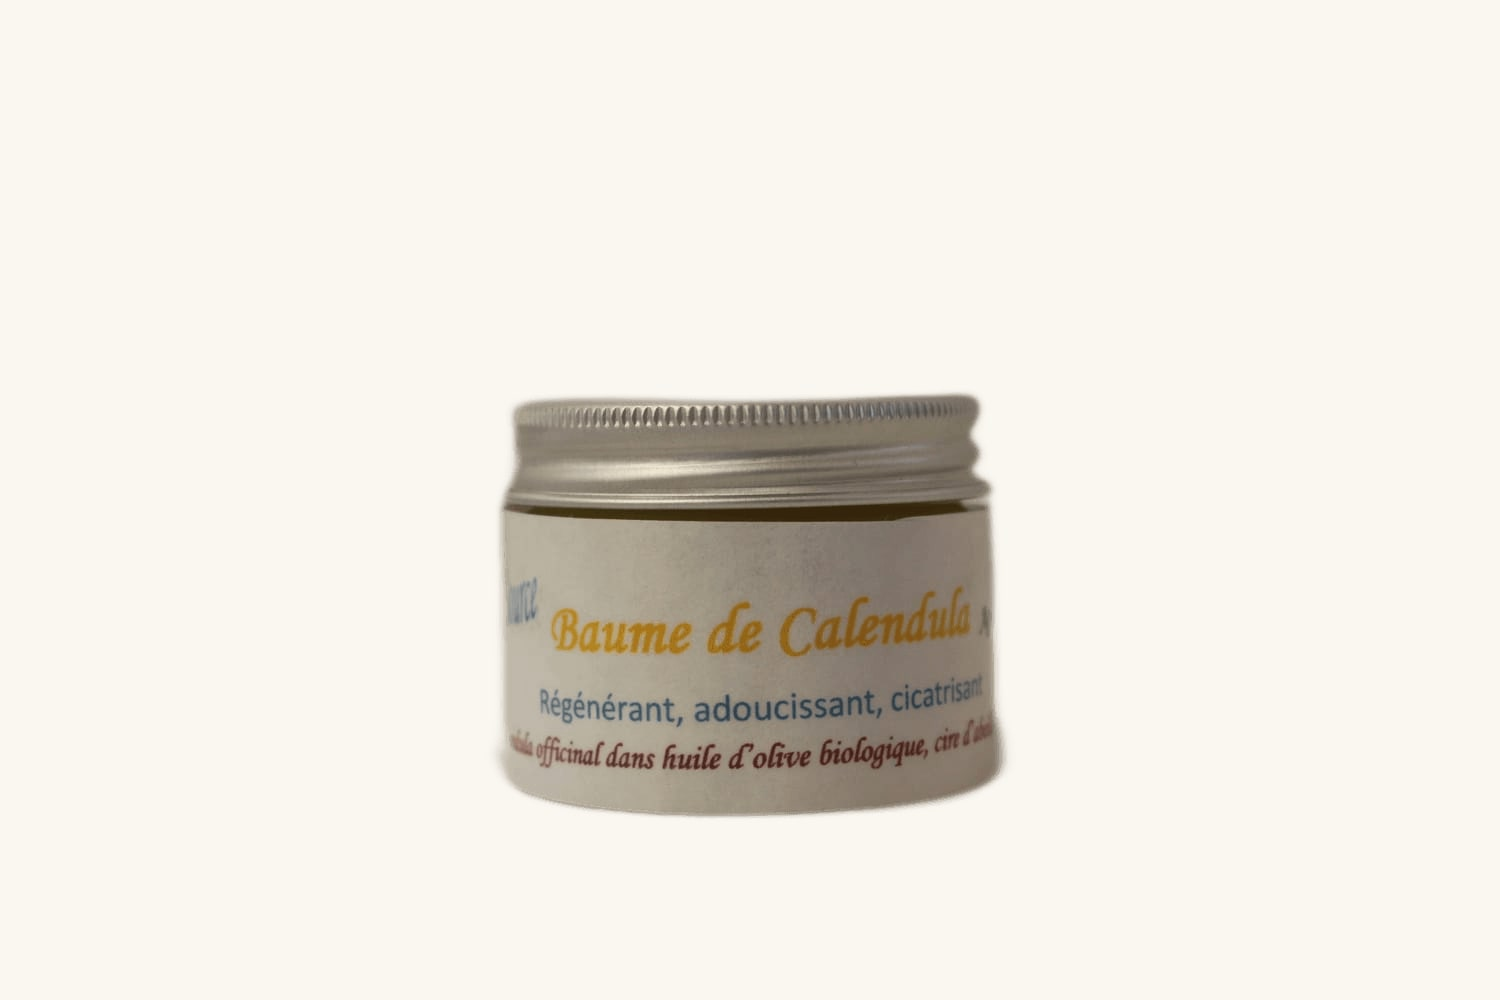
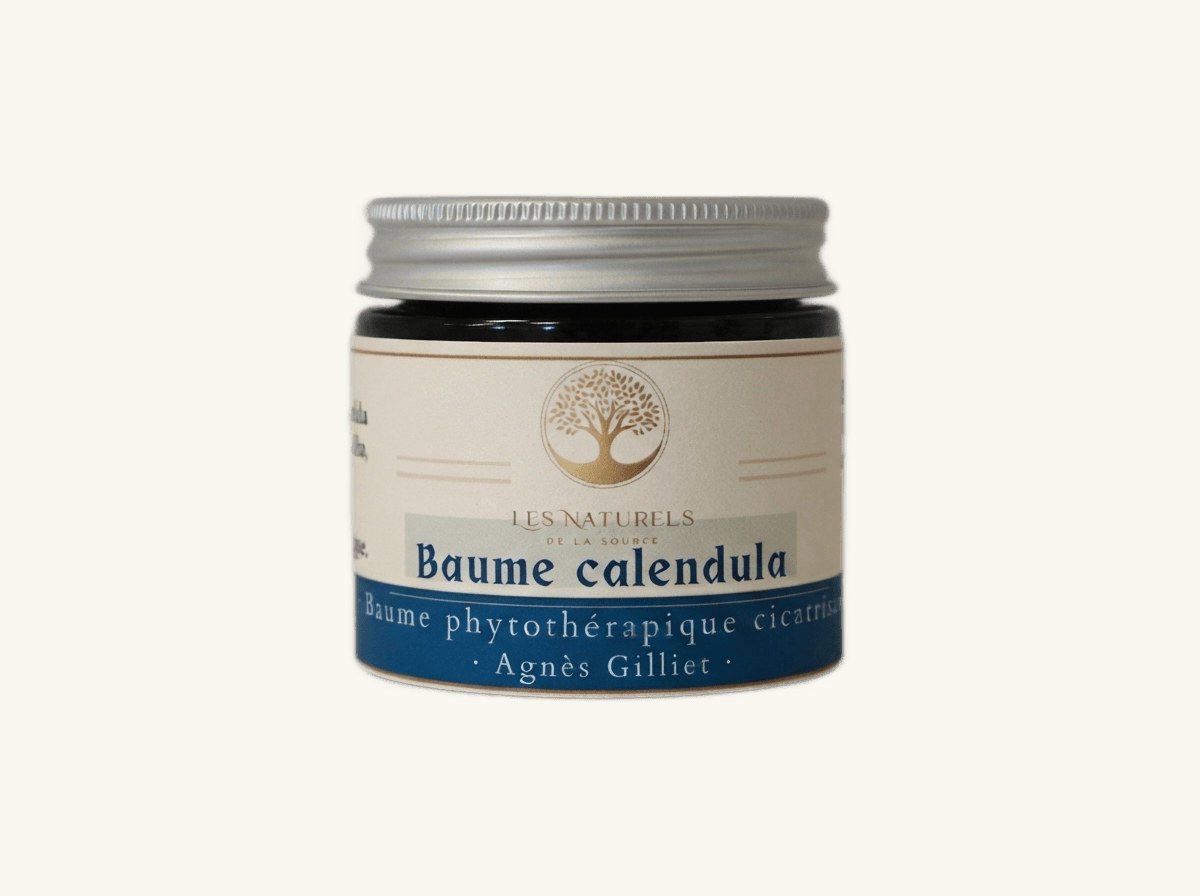
Boutique : images rubriques agrandies, baumes étiquetés, tanaisie, nettoyages
- Images à côté des intitulés agrandies (rep 190→240, bandeaux 140→180).
- Retire "Photo d'illustration" sous les bandeaux (HE, Tisanes, Hydrolats).
- Tisanes : "sachet kraft de 15, 25 ou 50 g".
- Baumes avec nouvelles étiquettes : Bomhémo (#93), calendula (#92),
  féminité (#97) — photos détourées.
- Tanaisie (#70) : vraie tanaisie (Tanacetum vulgare) au lieu de la camomille.

Changed region(s): [[0.2775, 0.2188, 0.7092, 0.8438]]

diff --git a/src/App.tsx b/src/App.tsx
@@ -1256,7 +1256,7 @@ function PageBoutique({ cart, setCart, addToast, onOpenCart, onRdv, setPage, ini
             <div style={{ maxWidth:860, margin:'0 auto', padding:'56px 32px' }}>
               {CATEGORY_REP_IMAGE[activeCategory] && PRODUCT_IMAGES[CATEGORY_REP_IMAGE[activeCategory]] && (
                 <img src={PRODUCT_IMAGES[CATEGORY_REP_IMAGE[activeCategory]]} alt={activeCategory} loading="lazy"
-                  style={{ float:'right', width:190, height:190, objectFit:'contain', marginLeft:28, marginBottom:16,
+                  style={{ float:'right', width:240, height:240, objectFit:'contain', marginLeft:30, marginBottom:16,
                     borderRadius:16, border:'1px solid oklch(0.42 0.085 150 / 0.14)', background:'var(--surface)' }}/>
               )}
               <p style={{ fontFamily:'Barlow,sans-serif', fontSize:10, letterSpacing:2.5, textTransform:'uppercase', color:'var(--forest)', fontWeight:600, marginBottom:20, display:'flex', alignItems:'center', gap:10 }}>
@@ -1267,39 +1267,27 @@ function PageBoutique({ cart, setCart, addToast, onOpenCart, onRdv, setPage, ini
                 <div style={{ display:'flex', alignItems:'center', gap:22, marginBottom:28, padding:'16px 22px',
                   background:'var(--surface)', border:'1px solid oklch(0.42 0.085 150 / 0.14)', borderRadius:14 }}>
                   <img src={heFlaconExemple} alt="Flacon verre ambré de 15 ml — huile essentielle de romarin"
-                    style={{ height:140, width:'auto', objectFit:'contain', flexShrink:0 }}/>
+                    style={{ height:180, width:'auto', objectFit:'contain', flexShrink:0 }}/>
                   <p style={{ fontFamily:'Barlow,sans-serif', fontSize:16, fontWeight:500, color:'var(--ink)', margin:0, lineHeight:1.5 }}>
-                    Conditionnées en flacons verre ambré de 15 ml
-                    <span style={{ display:'block', fontSize:12, fontWeight:300, color:'var(--lt-ink-muted)', marginTop:4 }}>
-                      Photo d'illustration
-                    </span>
-                  </p>
+                    Conditionnées en flacons verre ambré de 15 ml                  </p>
                 </div>
               )}
               {activeCategory === 'Tisanes & Plantes' && PRODUCT_IMAGES[85] && (
                 <div style={{ display:'flex', alignItems:'center', gap:22, marginBottom:28, padding:'16px 22px',
                   background:'var(--surface)', border:'1px solid oklch(0.42 0.085 150 / 0.14)', borderRadius:14 }}>
                   <img src={PRODUCT_IMAGES[85]} alt="Sachet kraft de tisane de 25 g" loading="lazy"
-                    style={{ height:140, width:'auto', objectFit:'contain', flexShrink:0 }}/>
+                    style={{ height:180, width:'auto', objectFit:'contain', flexShrink:0 }}/>
                   <p style={{ fontFamily:'Barlow,sans-serif', fontSize:16, fontWeight:500, color:'var(--ink)', margin:0, lineHeight:1.5 }}>
-                    Conditionnées en sachet kraft de 25 g
-                    <span style={{ display:'block', fontSize:12, fontWeight:300, color:'var(--lt-ink-muted)', marginTop:4 }}>
-                      Photo d'illustration
-                    </span>
-                  </p>
+                    Conditionnées en sachet kraft de 15, 25 ou 50 g                  </p>
                 </div>
               )}
               {activeCategory === 'Hydrolats' && PRODUCT_IMAGES[65] && (
                 <div style={{ display:'flex', alignItems:'center', gap:22, marginBottom:28, padding:'16px 22px',
                   background:'var(--surface)', border:'1px solid oklch(0.42 0.085 150 / 0.14)', borderRadius:14 }}>
                   <img src={PRODUCT_IMAGES[65]} alt="Flacon verre bleu d'hydrolat" loading="lazy"
-                    style={{ height:140, width:'auto', objectFit:'contain', flexShrink:0 }}/>
+                    style={{ height:180, width:'auto', objectFit:'contain', flexShrink:0 }}/>
                   <p style={{ fontFamily:'Barlow,sans-serif', fontSize:16, fontWeight:500, color:'var(--ink)', margin:0, lineHeight:1.5 }}>
-                    Flacon verre bleu pour les 200 ml, flacon verre ambré pour les 500 ml
-                    <span style={{ display:'block', fontSize:12, fontWeight:300, color:'var(--lt-ink-muted)', marginTop:4 }}>
-                      Photo d'illustration
-                    </span>
-                  </p>
+                    Flacon verre bleu pour les 200 ml, flacon verre ambré pour les 500 ml                  </p>
                 </div>
               )}
               <p style={{ fontFamily:'Vollkorn,serif', fontSize:'clamp(22px,2.6vw,30px)', fontStyle:'italic', fontWeight:400, color:'var(--ink)', lineHeight:1.7, marginBottom: rest ? 28 : 0 }}>
@@ -2473,7 +2461,7 @@ function PageMentions({ setPage }: { setPage:(p:string)=>void }) {
 • Hydrolat de livèche — 4028mdk09 (CC BY-SA 3.0)
 • Hydrolat de menthe poivrée — Wikimedia Commons (CC BY 3.0)
 • Hydrolat de sauge officinale — Agnieszka Kwiecień, Nova (CC BY-SA 4.0)
-• Hydrolat de tanaisie annuelle — Wikimedia Commons (domaine public)
+• Hydrolat de tanaisie annuelle — Stefan.lefnaer (CC BY-SA 4.0)
 
 — Synergies —
 • Synergie Aphtes & Mycoses — Stelian Kasabov (domaine public)
